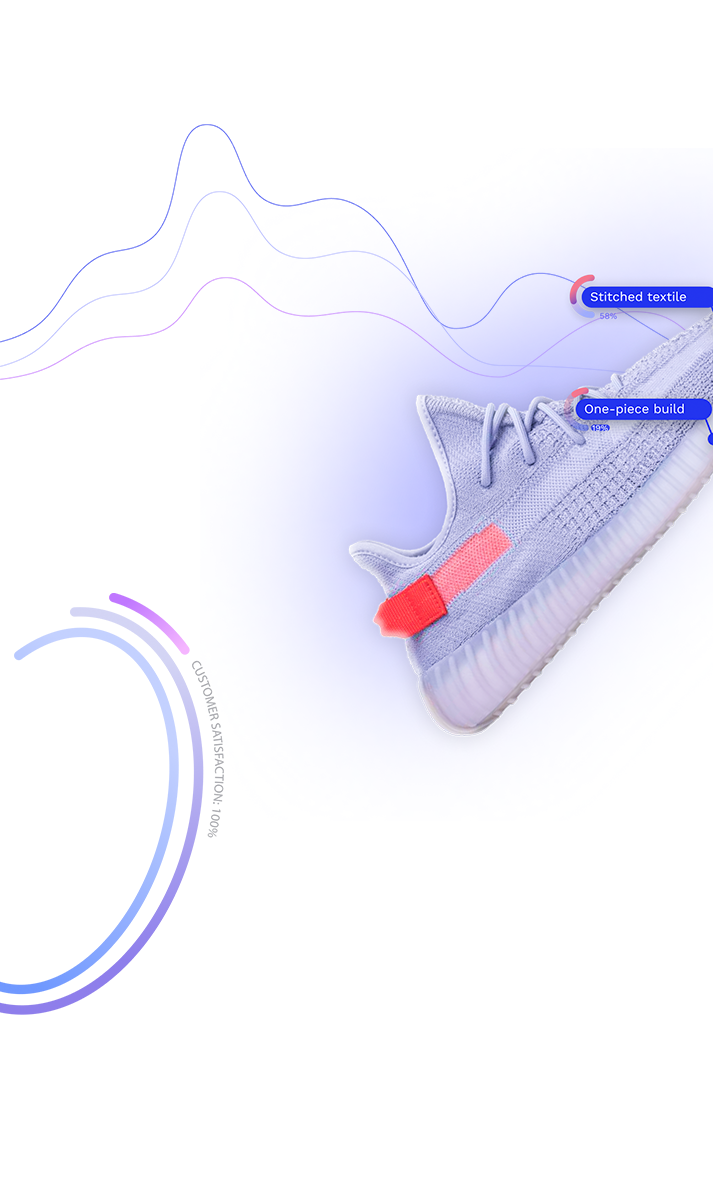
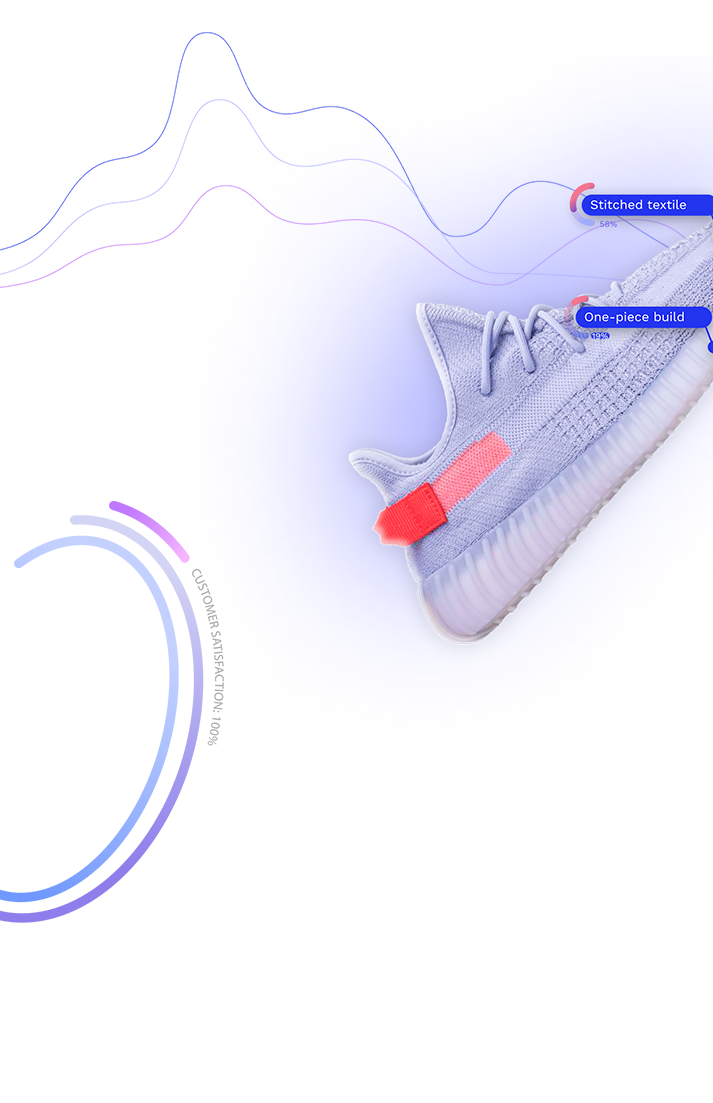
slider

diff --git a/singuli/index.css b/singuli/index.css
@@ -962,7 +962,7 @@ template {
   position: absolute;
   right: 0;
   left: 0;
-  top: -140px;
+  top: -70px;
   z-index: -1;
   background-repeat: no-repeat;
   background-position: center;
@@ -977,11 +977,6 @@ template {
   margin: auto;
   width: 80%;
   z-index: 40; }
-  .demo__slider .glide__track {
-    width: 113%; }
-    @media screen and (min-width: 768px) {
-      .demo__slider .glide__track {
-        width: 133%; } }
   .demo__slider .glide__slide {
     padding: 20px; }
   .demo__slider .glide__bullets {
@@ -998,7 +993,7 @@ template {
         background-color: #000;
         position: absolute;
         top: calc(50% - 50px);
-        right: -15%;
+        right: -15px;
         display: flex;
         align-items: center;
         justify-content: center;

diff --git a/singuli/scss/components/_demo.scss b/singuli/scss/components/_demo.scss
@@ -24,7 +24,7 @@
   height: 100%;
   position: absolute;
   right: 0; left: 0;
-  top: -140px;
+  top: -70px;
   z-index: -1;
   background-repeat: no-repeat;
   background-position: center;
@@ -42,13 +42,13 @@
   width: 80%;
   z-index: 40;
   
-  .glide__track {
-    width: 113%;
+  // .glide__track {
+  //   width: 113%;
     
-    @media screen and (min-width: $tablet) {
-      width: 133%;
-    }
-  }
+  //   @media screen and (min-width: $tablet) {
+  //     width: 133%;
+  //   }
+  // }
 
   .glide__slide {
     padding: 20px;
@@ -79,7 +79,7 @@
       background-color: $black;
       position: absolute;
       top: calc(50% - 50px);
-      right: -15%;
+      right: -15px;
       display: flex;
       align-items: center;
       justify-content: center;

diff --git a/singuli/demo.html b/singuli/demo.html
@@ -11,7 +11,7 @@
   </head>
   <body>
     <nav class="navbar--gray">
-     <a href="/"><img alt="singuli logo" src="images/logo.svg"/></a>
+     <a href="../"><img alt="singuli logo" src="images/logo.svg"/></a>
       <div class="navbar__buttons">
         <button class="navbar__login">Login</button>
       </div>
